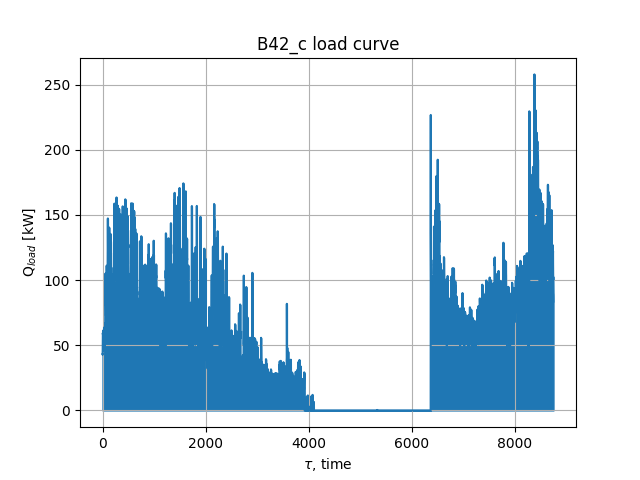
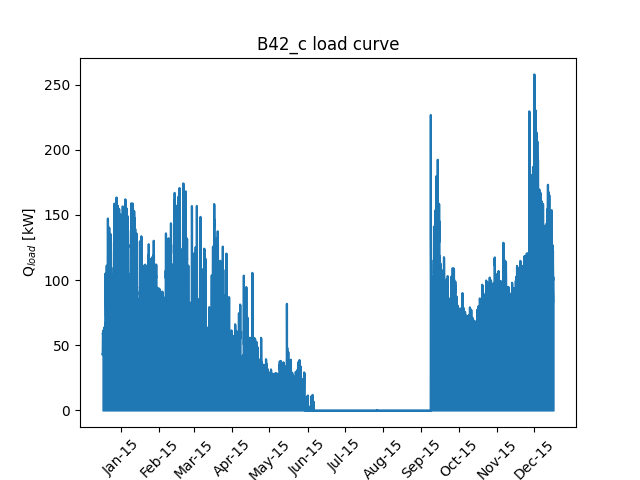
Add label to load curve

diff --git a/Experimental energy signature/Plot_Q.py b/Experimental energy signature/Plot_Q.py
@@ -21,9 +21,9 @@ for building in range(len(building_index)):
 
     # Load curve
     plt.plot(np.arange(len(Q)), Q.iloc[:]["P"])
-    plt.grid()
     plt.xlabel(r"$\tau$, time")
     plt.ylabel(r"Q$_{load}$ [kW]")
+    plt.xticks([15*24,46*24,74*24,105*24,135*24,166*24,196*24,227*24,258*24,288*24,319*24,349*24],["Jan-15","Feb-15","Mar-15","Apr-15","May-15","Jun-15","Jul-15","Aug-15","Sep-15","Oct-15","Nov-15","Dec-15"],rotation = 45)
     plt.title(str(building_index[building])+" load curve")
     plt.fill_between(np.arange(len(Q)), Q.iloc[:]["P"], 0, color='#1f77b4', alpha=1)
     plt.savefig(f"Experimental energy signature/Load-curve/{str(building_index[building])}-load-curve.png")
